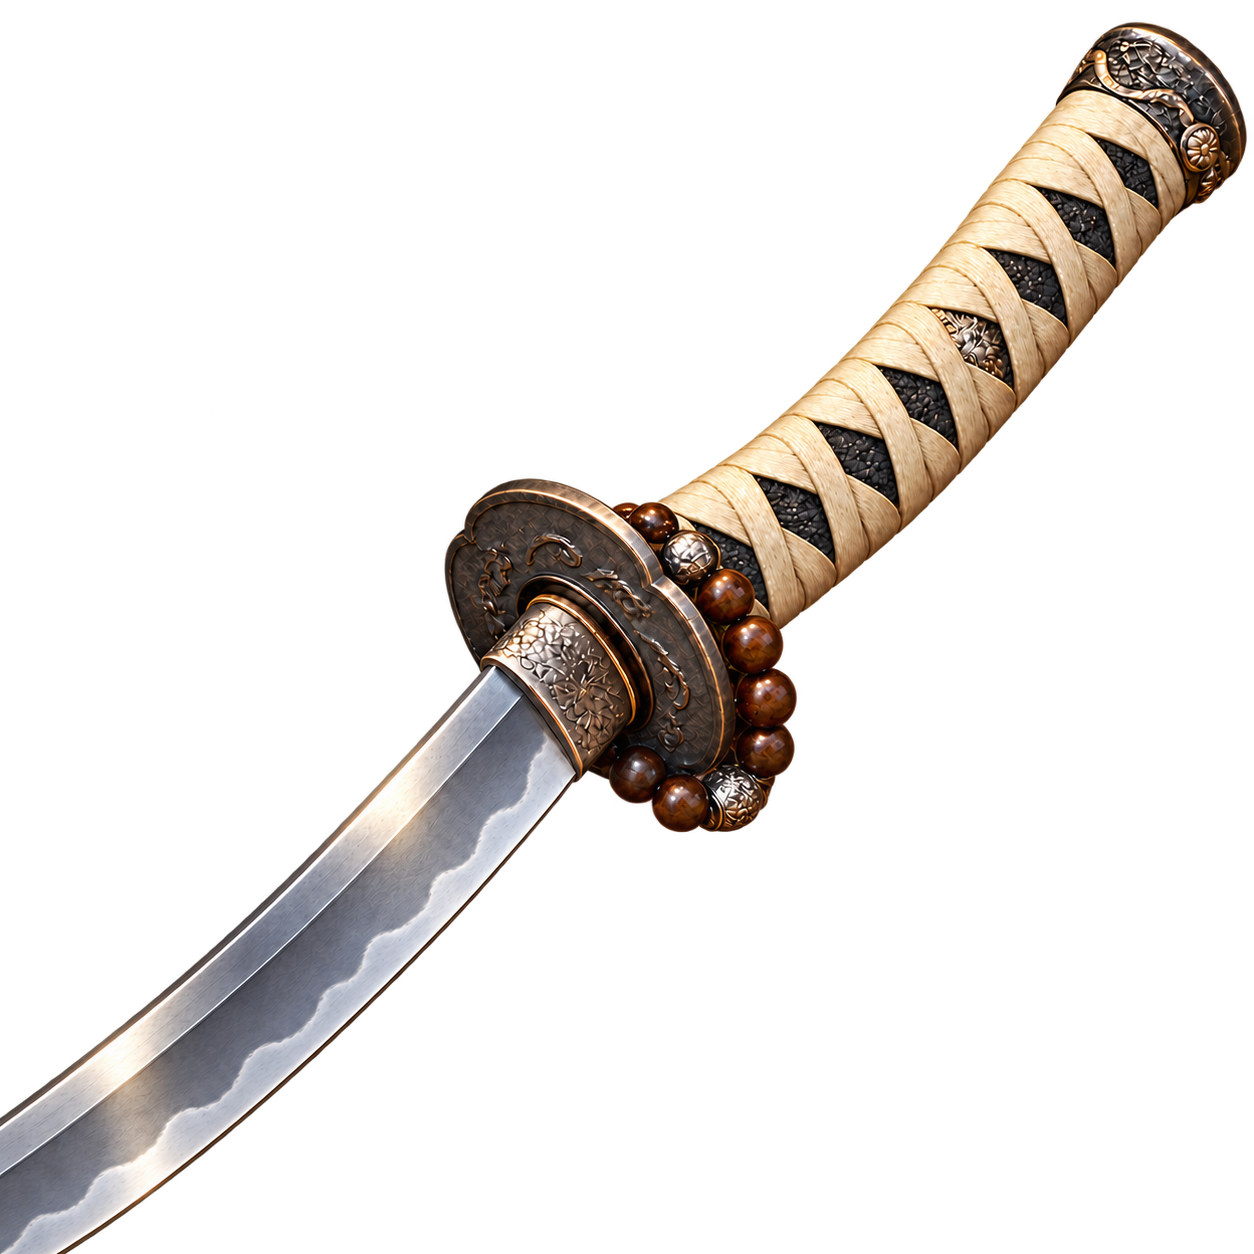
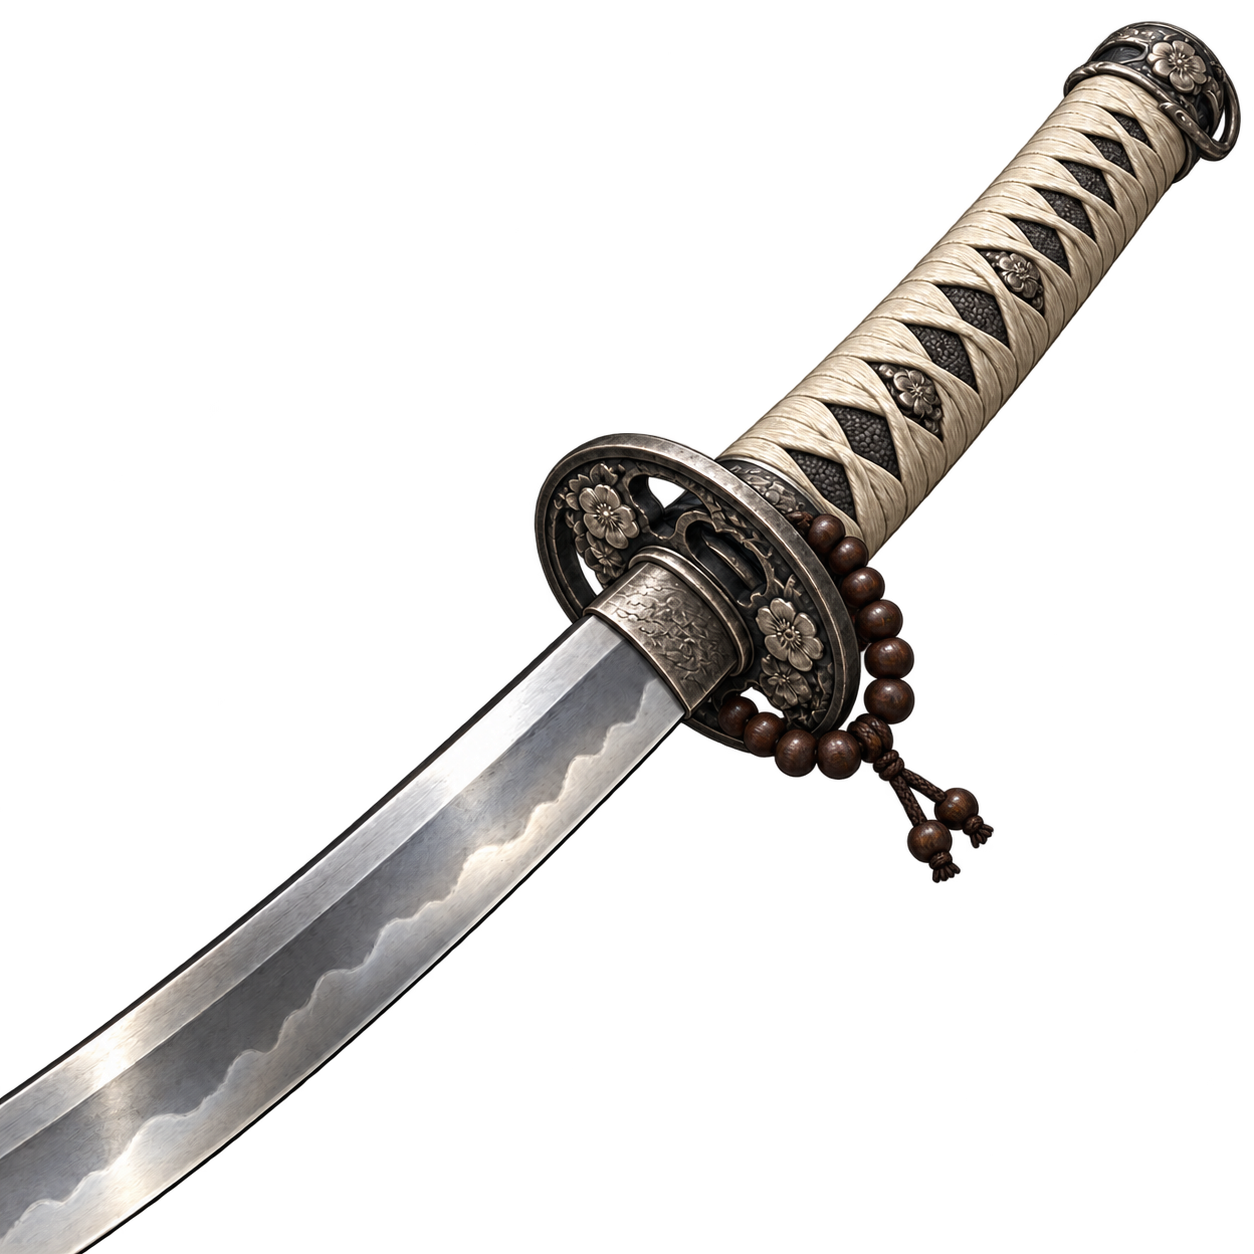
Unify Juzumaru blade and hilt along one shallow curve

Changed region(s): [[0.0, 0.0, 0.9952, 1.0]]

diff --git a/assets/sword-icons/JUZUMARU-CONTINUOUS-PROMPT.md b/assets/sword-icons/JUZUMARU-CONTINUOUS-PROMPT.md
@@ -1,0 +1,5 @@
+# 数珠丸の連続した反り
+
+内蔵image_genで大包平画像の形状を土台に再生成。柄と刀身を別々に曲げず、意匠を変更する。
+
+Use case: precise-object-edit. Make a Juzumaru icon by editing THIS supplied red-handled sword. Preserve this image's entire sword geometry: exact blade silhouette, handle silhouette, centerline, diagonal angle, guard location, blade-to-hilt alignment and overall shallow continuous sweep. Do NOT introduce any additional bending in the handle. Do NOT rotate the handle independently. This sword has one gently curving continuous axis from blade through tang into grip; preserve that unified geometry exactly. Only change decorative identity: change red silk handle wrapping to ivory/off-white silk, change the ivory rayskin visible between wraps to dark charcoal rayskin. Change gold fittings to aged silver, change gold guard to dark blackened iron with restrained silver decoration. Add one compact loop of dark brown wooden Buddhist prayer beads closely draped beside the guard. Keep beads small enough not to hide the blade-handle junction. Keep same steel blade, same blade curvature and same shallow hilt curve as original. Same realistic painted 3D inventory style, square crop, transparent alpha background, no text, no opaque backdrop. This is a material/color variant of the reference sword with prayer beads, NOT a new bent-handle silhouette.

diff --git a/meitou_mod/README.md b/meitou_mod/README.md
@@ -1,4 +1,4 @@
-# 名刀 Mod 試作版 v0.10.5
+# 名刀 Mod 試作版 v0.10.6
 
 髭切・膝丸・三日月宗近・童子切安綱・大包平・大典太光世・数珠丸恒次・鬼丸国綱を入手できる物語を追加します。天下五剣の五振りも揃います。髭切・膝丸・三日月・童子切・大典太はCK3本体の宝物生成処理を使い、大包平・数珠丸・鬼丸はMod独自の宝物として生成します。日本を旅行する成人プレイヤーが州に入るたび、未入手で再発待ち期間中ではない刀ごとに100%の確率で物語が始まります。領地を持たない冒険者も対象です。到着トリガーの検証用に、入手・強化イベントの発生確率をすべて100%にしています。条件を満たす複数の刀の導入が、同じ移動でまとめて発生する場合があります。
 
